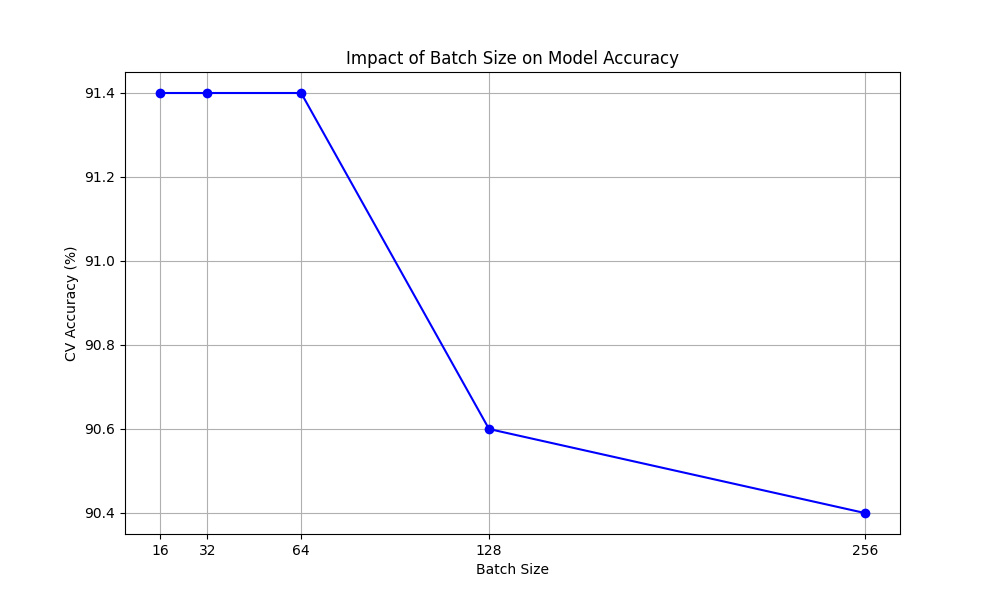
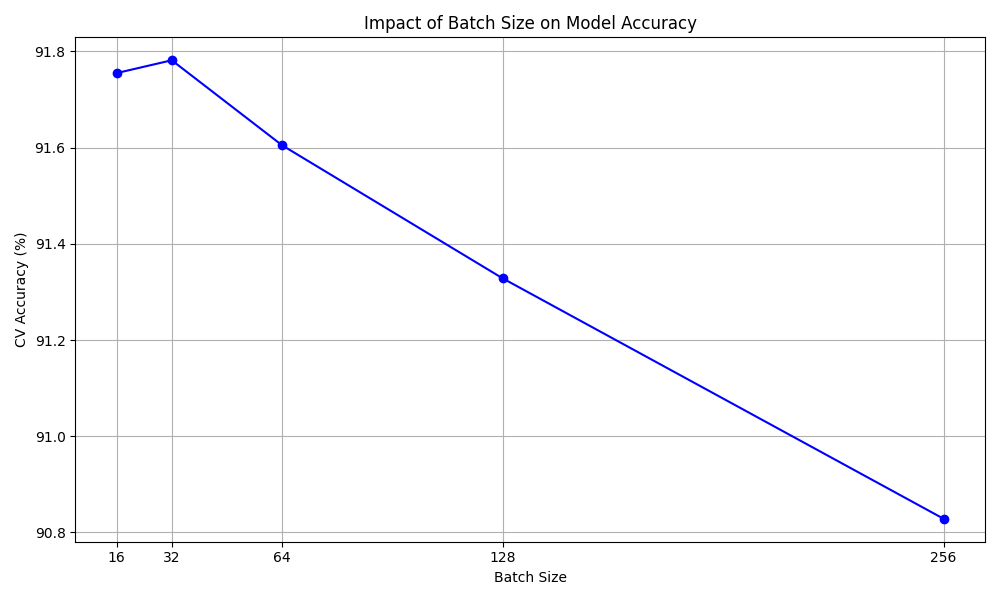
new results for logreg

diff --git a/src/grid_search/LogReg/run_logreg_gs.py b/src/grid_search/LogReg/run_logreg_gs.py
@@ -50,19 +50,19 @@ if __name__ == "__main__":
     batch_accuracies = []
     epoch_accuracies = []
 
-    for lr in learning_rates:
-        val_accuracies = run_cv(trainset, config, epochs=fixed_epochs, learning_rate=lr, batch_size=fixed_batch_size)
-        mean_accuracy = float(np.mean(val_accuracies))
-        std_accuracy = float(np.std(val_accuracies))
-        lr_accuracies.append(mean_accuracy)
-        print(f"Learning Rate: {lr}, CV Accuracy: {mean_accuracy:.2f}% with standard deviation {std_accuracy:.2f}")
+    # for lr in learning_rates:
+    #     val_accuracies = run_cv(trainset, config, epochs=fixed_epochs, learning_rate=lr, batch_size=fixed_batch_size)
+    #     mean_accuracy = float(np.mean(val_accuracies))
+    #     std_accuracy = float(np.std(val_accuracies))
+    #     lr_accuracies.append(mean_accuracy)
+    #     print(f"Learning Rate: {lr}, CV Accuracy: {mean_accuracy:.2f}% with standard deviation {std_accuracy:.2f}")
 
-    for batch_size in batch_sizes:
-        val_accuracies = run_cv(trainset, config, epochs=fixed_epochs, learning_rate=fixed_lr, batch_size=batch_size)
-        mean_accuracy = float(np.mean(val_accuracies))
-        std_accuracy = float(np.std(val_accuracies))
-        batch_accuracies.append(mean_accuracy)
-        print(f"Batch size: {batch_size}, CV Accuracy: {mean_accuracy:.2f}% with standard deviation {std_accuracy:.2f}")
+    # for batch_size in batch_sizes:
+    #     val_accuracies = run_cv(trainset, config, epochs=fixed_epochs, learning_rate=fixed_lr, batch_size=batch_size)
+    #     mean_accuracy = float(np.mean(val_accuracies))
+    #     std_accuracy = float(np.std(val_accuracies))
+    #     batch_accuracies.append(mean_accuracy)
+    #     print(f"Batch size: {batch_size}, CV Accuracy: {mean_accuracy:.2f}% with standard deviation {std_accuracy:.2f}")
 
     for epoch in epochs_list:
         val_accuracies = run_cv(trainset, config, epochs=epoch, learning_rate=fixed_lr, batch_size=fixed_batch_size)
@@ -73,8 +73,8 @@ if __name__ == "__main__":
 
 
     #Create plots
-    utils.plot_parameter_study(learning_rates, lr_accuracies, "Learning Rate")
-    utils.plot_parameter_study(batch_sizes, batch_accuracies, "Batch Size", xticks=True)
+    #utils.plot_parameter_study(learning_rates, lr_accuracies, "Learning Rate")
+    #utils.plot_parameter_study(batch_sizes, batch_accuracies, "Batch Size", xticks=True)
     utils.plot_parameter_study(epochs_list, epoch_accuracies, "Number of Epochs")
 
 
